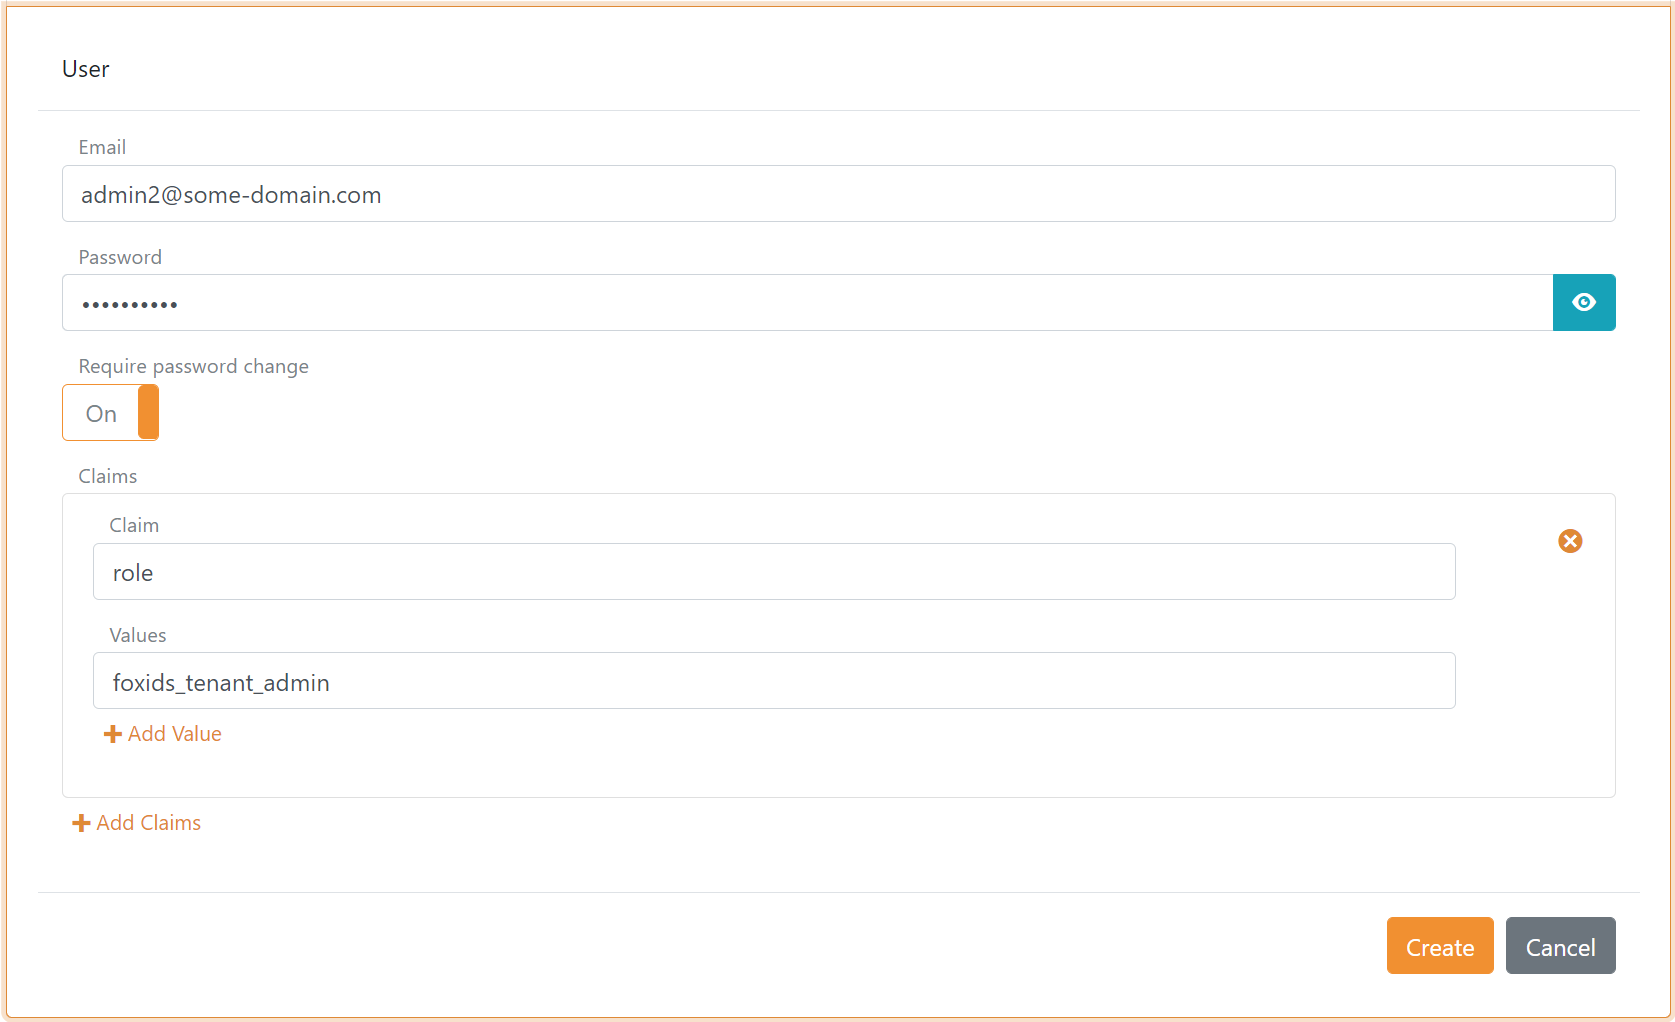
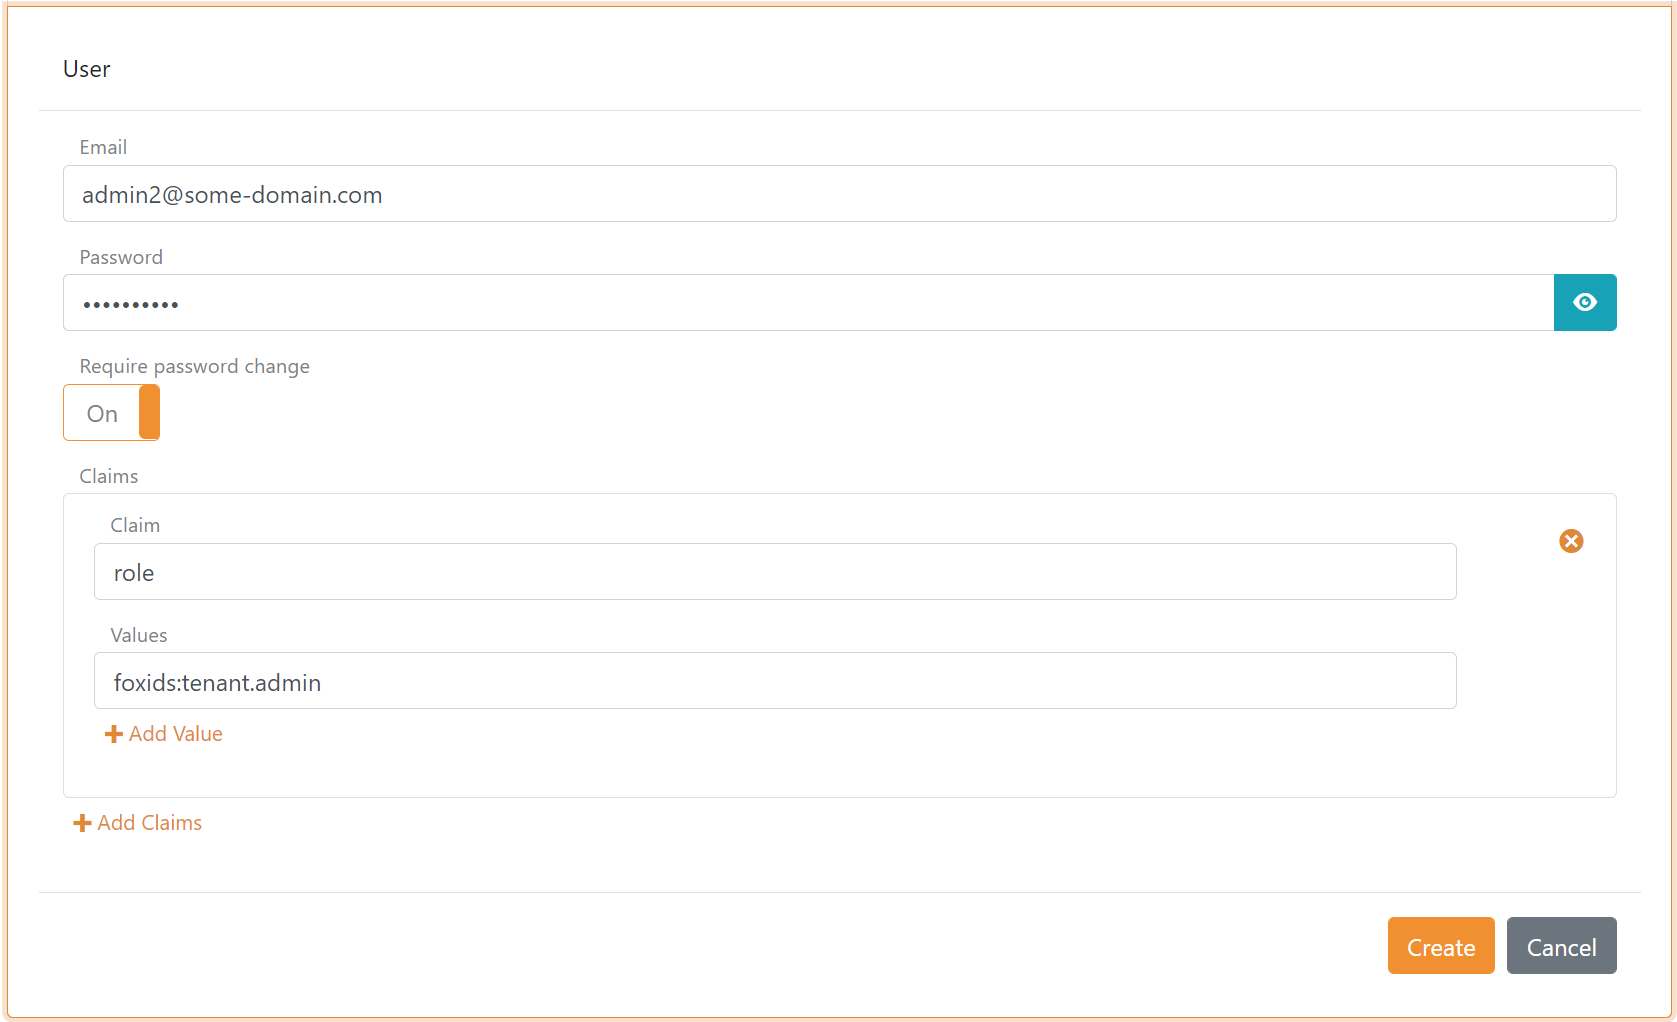
Scope doc.

diff --git a/docs/control.md b/docs/control.md
@@ -16,7 +16,7 @@ In the future if you use FoxIDs at [https://FoxIDs.com](https://foxids.com). You
 A tenant contains a master track, from where the entire tenant is configured. The master track contains a user repository and on creation only one administrator user.
 
 Select and open the tenant you just created. At first the tenant only contains a master track, normally you should not change the master track configuration or add new up- parties or down-parties.  
-It is possible to create more user in the master track. A user become an administrator by adding the administrator role `foxids_tenant_admin` like shown below.
+It is possible to create more user in the master track. A user become an administrator by adding the administrator role `foxids:tenant.admin` like shown below.
 
 ![Configure administrator user](images/configure-tenant-adminuser.png)
 
@@ -55,9 +55,10 @@ The track properties can be configured by clicking the top right setting icon.
 ## FoxIDs Control API
 FoxIDs Control API is a REST API. The API expose a Swagger (OpenApi) interface document.
 
-FoxIDs Control API can be called by an OAuth 2.0 client either acting as the client itself or as an OAuth 2.0 / OIDC client with an authenticated user. FoxIDs Control API require the `foxids_tenant` scope if the client acts as itself. And the `foxids_tenant_user` scope if the client acts on-behalf of an authenticated user where the user and the user's `foxids_tenant_admin` role is included in the access token.
+FoxIDs Control API require that the client calling the API is granted the `foxids:master` scope to access master data or the `foxids:tenant` scope access tenant API. Normally only tenant data is accessed.
+The client can be an OAuth 2.0 client with the administrator role `foxids:tenant.admin` acting as the client itself. Or an OAuth 2.0 / OIDC client with an authenticated user having the administrator role `foxids:tenant.admin`. 
 
-This shows the FoxIDs Control API configuration in the master track, including the scope configuration.
+This shows the FoxIDs Control API configuration in the master track with a scope configuration that grants access to tenant data.
 
 ![Configure foxids_control_api](images/configure-foxids_control_api.png)
 
